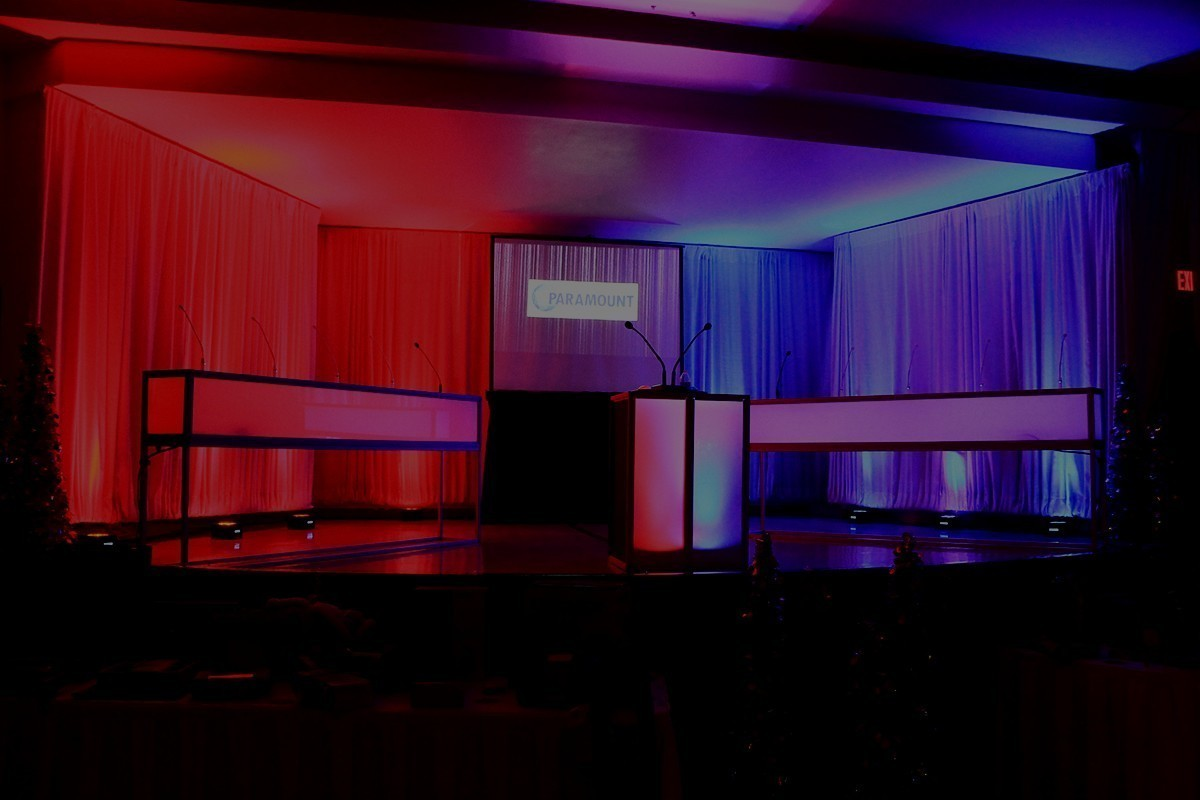
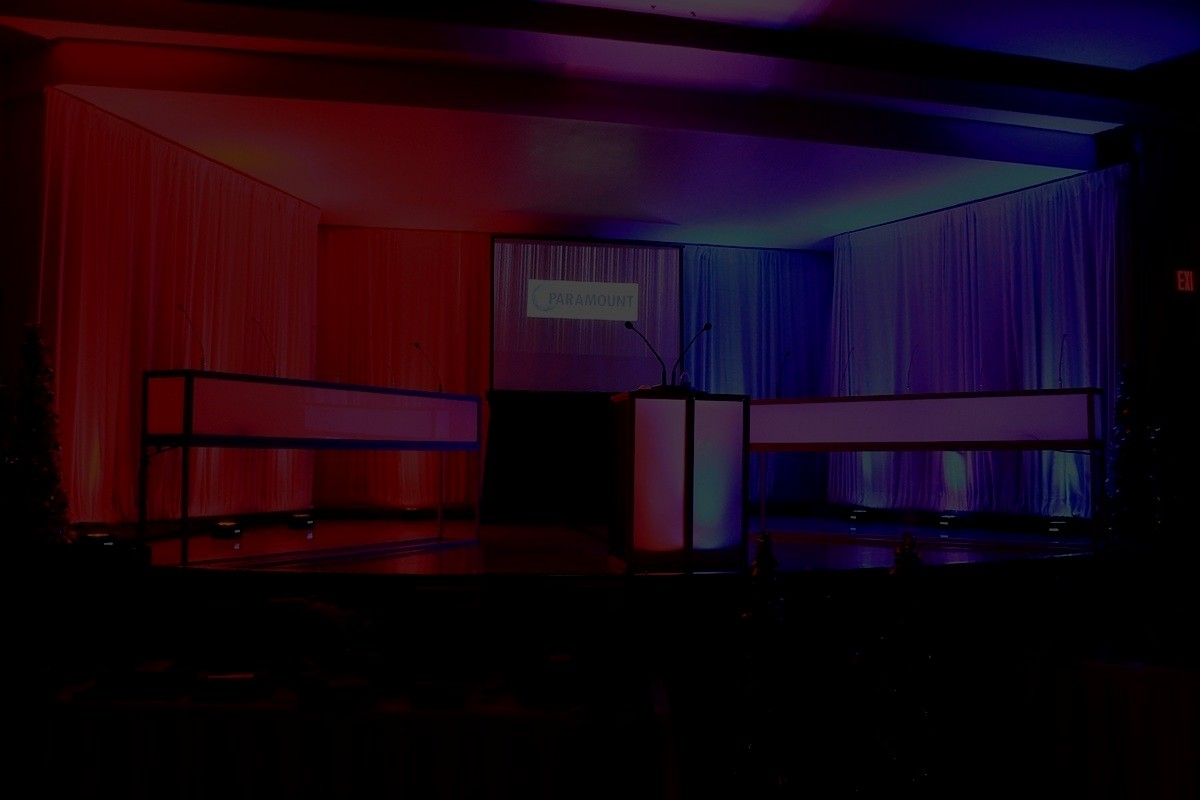
"Changed backgrounds"

diff --git a/other.html b/other.html
@@ -431,14 +431,14 @@ The participants will be judged on the basis of their writing skills, grammar an
 	<h1>LINGUATHON</h1>
 	<h2>Event Overview</h2>
 	<p>What more does a literary fest require except a battle of the tongues? </p>
-	<p>An event that vigorously tests Gespür in speaking, la Beauté in writing,  la alegría of listening, the 強い集中 for reading. Watch, or better yet participate, as the participants dole it out in a battle royale to test out who will be the master of their favourite language (cough, NOT ENGLISH) in... The Linguathon,  The Language Marathon!! </p>
+	<p>An event that vigorously tests Gespür in speaking, la Beauté in writing,  la alegría of listening. Watch, or better yet participate, as the participants dole it out in a battle royale to test out who will be the master of their favourite language (cough, NOT ENGLISH) in... The Linguathon,  The Language Marathon!! </p>
 	<h2>Languages Accepted:</h2>
 	<ul>
-		<li>संस्कृत (Sanskrit)  </li>
-		<li>Deutsche (German) </li>
-		<li>日本人 (Japanese) </li>
-		<li>Français (French) </li>
-		<li>Español (Spanish) </li>
+		<li>Sanskrit  </li>
+		<li>German </li>
+		<li>Japanese </li>
+		<li>French </li>
+		<li>Spanish </li>
 	</ul>
 	<h2>Event Details</h2>
 	<flexdet>
@@ -479,36 +479,36 @@ The participants will be judged on the basis of their writing skills, grammar an
 
 <div class='flex-events'>
 	<div class='bod' id='SH'>
-		<div class='content' ><div class='pad'>Lit Quiz</div><br><br>
-		<a> From Shakespearian plays to dystopian societies, put your literary trivia to test. <br> <button class='check' onclick='dis1()'>Learn More</button> </a> </div>
+		<div class='content' onclick='dis1()'><div class='pad'>Lit Quiz</div><br><br>
+		<a> Put your literary trivia to test. <br> <button class='check' >Learn More</button> </a> </div>
 	</div>
 	
 	<div class='bod' id='SOTS'>
-		<div class='content' ><div class='pad'>Spell Bee</div><br><br>
-		<a> This time, you can't blame autocorrect.<br> <button class='check' onclick='dis2()'>Learn More</button>  </a> </div>
+		<div class='content'  onclick='dis2()' ><div class='pad'>Spell Bee</div><br><br>
+		<a> This time, you can't blame autocorrect.<br> <button class='check'>Learn More</button>  </a> </div>
 	</div>
 	<div class='bod' id='PP'>
-		<div class='content' ><div class='pad'>Whose Ad is it Anyway?</div><br><br>
-		<a> Those unskippable youtube ads will prove useful after all.<br> <button class='check' onclick='dis3()'>Learn More</button>  </a> </div>
+		<div class='content' onclick='dis3()'><div class='pad'>Whose Ad is it Anyway?</div><br><br>
+		<a> Those unskippable youtube ads will prove useful after all.<br> <button class='check' >Learn More</button>  </a> </div>
 	</div>
 	<div class='bod' id='YY'>
-		<div class='content' ><div class='pad'>By the Law</div><br><br>
-		<a> Unleash the lawyer in you. <br> <button class='check' onclick='dis4()'>Learn More</button>  </a> </div>
+		<div class='content' onclick='dis4()'><div class='pad'>By the Law</div><br><br>
+		<a> Unleash the lawyer in you. <br> <button class='check' >Learn More</button>  </a> </div>
 	</div>
 			
 	<div class='bod' id='FF'>
-		<div class='content' ><div class='pad'>Bamboozled</div><br><br>
-		<a> Ever wanted to be a part of a game show? This is your chance. <br> <button class='check' onclick='dis5()'>Learn More</button>  </a> </div>
+		<div class='content' onclick='dis5()' ><div class='pad'>Bamboozled</div><br><br>
+		<a> Ever wanted to be a part of a game show? This is your chance. <br> <button class='check' >Learn More</button>  </a> </div>
 	</div>
 	
 	<div class='bod' id='TE'>
-		<div class='content' ><div class='pad'>Linguathon</div><br><br>
-		<a> Put your foreign tongue to the test.<br> <button class='check' onclick='dis6()'>Learn More</button>  </a> </div>
+		<div class='content'  onclick='dis6()'><div class='pad'>Linguathon</div><br><br>
+		<a> Put your foreign tongue to the test.<br> <button class='check'>Learn More</button>  </a> </div>
 	</div>
 	
 	<div class='bod' id='BE'>
-		<div class='content' ><div class='pad'>Youth Mahasabha</div><br><br>
-		<a> <br> <button class='check' onclick='dis7()'>Learn More</button>  </a> </div>
+		<div class='content'  onclick='dis7()'><div class='pad'>Youth Mahasabha</div><br><br>
+		<a> <br> <button class='check'>Learn More</button>  </a> </div>
 	</div>
 	
 </div>

diff --git a/writing.html b/writing.html
@@ -400,7 +400,7 @@ function dis7()
 	<ul>
 		<li>Participate in teams of two . </li>
 		<li>Write the yin or yang version of a prompt that suits your liking and swap with your partner.</li>
-		<li>Write a complementary(not necessarily opposite)version for whatever your partner has written</li>
+		<li>Write a complementary (not necessarily opposite) version for whatever your partner has written</li>
 	</ul>
 	<h2>Event Details</h2>
 	<flexdet>
@@ -446,7 +446,7 @@ Describe the world after the Thanos snap, or under the rule of Lord Voldemort, o
 </p>
 	<h2>Rules of Procedure</h2>
 	<ul>
-		<li>Submit your short story, prose or poem (in english only) to elas@hyderabad.bits-pilani.ac.in </li>
+		<li>Submit your short story, prose or poem (in english only) to verbamaximus@gmail.com </li>
 		<li>Word limit is up to 5000 words.</li>
 		<li>Submit your entries by the 18th of January.</li>
 		<li>Plagiarism of any form will not be accepted.</li>
@@ -468,31 +468,31 @@ Describe the world after the Thanos snap, or under the rule of Lord Voldemort, o
 
 <div class='flex-events'>
 	<div class='bod' id='SH'>
-		<div class='content' ><div class='pad'>Sherlocked</div><br><br>
-		<a> Play the detective and unmask the twisted lies. <br> <button class='check' onclick='dis1()'>Learn More</button> </a> </div>
+		<div class='content'  onclick='dis1()'><div class='pad'>Sherlocked</div><br><br>
+		<a> Play the detective and unmask the twisted lies. <br> <button class='check'>Learn More</button> </a> </div>
 	</div>
 	
 	<div class='bod' id='SOTS'>
-		<div class='content' ><div class='pad'>Symphonies <br>of the Soul</div><br><br>
-		<a> Let the music guide you.<br> <button class='check' onclick='dis2()'>Learn More</button>  </a> </div>
+		<div class='content' onclick='dis2()'><div class='pad'>Symphonies <br>of the Soul</div><br><br>
+		<a> Let the music guide you.<br> <button class='check' >Learn More</button>  </a> </div>
 	</div>
 	<div class='bod' id='PP'>
-		<div class='content' ><div class='pad'>Picture Perspective</div><br><br>
-		<a> Is a picture really worth a thousand words?<br> <button class='check' onclick='dis3()'>Learn More</button>  </a> </div>
+		<div class='content' onclick='dis3()' ><div class='pad'>Picture Perspective</div><br><br>
+		<a> Is a picture really worth a thousand words?<br> <button class='check'>Learn More</button>  </a> </div>
 	</div>
 	<div class='bod' id='YY'>
-		<div class='content' ><div class='pad'>Yin Yang</div><br><br>
-		<a> Two voices, one piece.<br> <button class='check' onclick='dis4()'>Learn More</button>  </a> </div>
+		<div class='content'  onclick='dis4()'><div class='pad'>Yin Yang</div><br><br>
+		<a> Two voices, one piece.<br> <button class='check'>Learn More</button>  </a> </div>
 	</div>
 			
 	<div class='bod' id='TE'>
-		<div class='content' ><div class='pad'>Rise Through the Ages</div><br><br>
-		<a> Create a revolution stronger than time itself.<br> <button class='check' onclick='dis6()'>Learn More</button>  </a> </div>
+		<div class='content'  onclick='dis6()'><div class='pad'>Rise Through the Ages</div><br><br>
+		<a> Create a revolution stronger than time itself.<br> <button class='check'>Learn More</button>  </a> </div>
 	</div>
 	
 	<div class='bod' id='BE'>
-		<div class='content' ><div class='pad'>Quill the Revolution</div><br><br>
-		<a> Online event.<br> <button class='check' onclick='dis7()'>Learn More</button>  </a> </div>
+		<div class='content'  onclick='dis7()'><div class='pad'>Quill the Revolution</div><br><br>
+		<a> Online event.<br> <button class='check'>Learn More</button>  </a> </div>
 	</div>
 	
 </div>

diff --git a/team.html b/team.html
@@ -63,7 +63,7 @@ body{background-color: #262626;}
 	border-right: 50px solid #000;
 	border-bottom: 200px solid transparent;
 	background-position: 0px 0px;
-	background-size: 250px 200px;
+	background-size: 225px 250px;
 }
 
 .txt
@@ -137,7 +137,7 @@ hr{padding: 0;}
 .pic{border-right: 30px solid #000;
 	border-bottom: 100px solid transparent;
 	background-position: 0px 0px;
-	background-size: 125px 115px;
+	background-size: 125px 130px;
 	}
 .name{font-size: 3.5vw; padding: 0; margin: 0;}
 .work{font-size:3.4vw; top: 0; padding: 0; margin: 0;}
@@ -175,7 +175,7 @@ hr{padding: 0;}
 		<div class='pic' id='AR'></div>
 		<div class='txt'>
 		<div class='name'>ADITYA RAMASWAMI</div>
-		<div class='work'>Convener</div>
+		<div class='work'>Secretary</div>
 		<hr>
 		<div class='number'>+918465927967</div>
 		<button class='contact' onclick="location.href='https://www.facebook.com/aditya.ramaswami';" >Contact</button>
@@ -221,7 +221,7 @@ hr{padding: 0;}
 		<div class='name'>ASHUTOSH ANDHARI</div>
 		<div class='work'>Sponsorship</div>
 		<hr>
-		<div class='number'>+919999999999</div>
+		<div class='number'>+919902413298</div>
 		<button class='contact' onclick="location.href='https://www.facebook.com/ashutosh.andhari';">Contact</button>
 		
 		</div>	
@@ -251,7 +251,7 @@ hr{padding: 0;}
 		<div class='name'>PRANEETH SETTY</div>
 		<div class='work'>Offline Publicity</div>
 		<hr>
-		<div class='number'>+919999999999</div>
+		<div class='number'>+917680993056</div>
 		<button class='contact' onclick="location.href='https://www.facebook.com/praneeth.c.up';">Contact</button>
 		
 		</div>	
@@ -281,7 +281,7 @@ hr{padding: 0;}
 		<div class='name'>VISHAL PRABU</div>
 		<div class='work'>Design</div>
 		<hr>
-		<div class='number'>+919999999999</div>
+		<div class='number'>+919866150211</div>
 		<button class='contact' onclick="location.href='https://www.facebook.com/vishalprabu99';">Contact</button>
 		
 		</div>	
@@ -311,7 +311,7 @@ hr{padding: 0;}
 		<div class='name'>BALPREET SINGH</div>
 		<div class='work'>Photography</div>
 		<hr>
-		<div class='number'>+919999999999</div>
+		<div class='number'>+919887422827</div>
 		<button class='contact' onclick="location.href='https://www.facebook.com/Balpreet999.701';">Contact</button>
 		
 		</div>	
@@ -341,7 +341,7 @@ hr{padding: 0;}
 		<div class='name'>MEHER GAJULA</div>
 		<div class='work'>Videography</div>
 		<hr>
-		<div class='number'>+919999999999</div>
+		<div class='number'>+919492939515</div>
 		<button class='contact' onclick="location.href='https://www.facebook.com/MeherGajula';">Contact</button>
 		
 		</div>	
@@ -355,7 +355,7 @@ hr{padding: 0;}
 		<div class='pic' id='RS'></div>
 		<div class='txt'>
 		<div class='name'>RISHABH SHRIMAL</div>
-		<div class='work'>Events</div>
+		<div class='work'>Event Management</div>
 		<hr>
 		<div class='number'>+919300383939</div>
 		<button class='contact' onclick="location.href='https://www.facebook.com/rishabh.shrimal.716';">Contact</button>

diff --git a/speaking.html b/speaking.html
@@ -466,26 +466,26 @@ Each poet gets a maximum of four minutes (plus a ten-second grace period) to rea
 
 <div class='flex-events'>
 	<div class='bod' id='SP'>
-		<div class='content' ><div class='pad'>Slam Poetry</div><br><br>
-		<a> Express your inner self through our words. <br> <button class='check' onclick='dis1()'>Learn More</button> </a> </div>
+		<div class='content'  onclick='dis1()'><div class='pad'>Slam Poetry</div><br><br>
+		<a> Express your inner self through your words. <br> <button class='check'>Learn More</button> </a> </div>
 	</div>
 	
 	<div class='bod' id='DB'>
-		<div class='content' ><div class='pad'>Debate</div><br><br>
-		<a> Stand your ground and convince the crowd.<br> <button class='check' onclick='dis2()'>Learn More</button>  </a> </div>
+		<div class='content'  onclick='dis2()' ><div class='pad'>Debate</div><br><br>
+		<a> Stand your ground and convince the crowd.<br> <button class='check'>Learn More</button>  </a> </div>
 	</div>
 	<div class='bod' id='DA'>
-		<div class='content' ><div class='pad'>Devil's Advocate</div><br><br>
-		<a> The dark side can be fun too.<br> <button class='check' onclick='dis3()'>Learn More</button>  </a> </div>
+		<div class='content'  onclick='dis3()'><div class='pad'>Devil's Advocate</div><br><br>
+		<a> The dark side can be fun too.<br> <button class='check'>Learn More</button>  </a> </div>
 	</div>
 	<div class='bod' id='JAM'>
-		<div class='content' ><div class='pad'>JAM</div><br><br>
-		<a> Keep talking uninterrupted for as long as you can.<br> <button class='check' onclick='dis4()'>Learn More</button>  </a> </div>
+		<div class='content' onclick='dis4()'><div class='pad'>JAM</div><br><br>
+		<a> Keep talking uninterrupted for as long as you can.<br> <button class='check' >Learn More</button>  </a> </div>
 	</div>
 			
 	<div class='bod' id='GD'>
-		<div class='content' ><div class='pad'>Group Discussion</div><br><br>
-		<a> Convince and question.<br> <button class='check' onclick='dis5()'>Learn More</button>  </a> </div>
+		<div class='content' onclick='dis5()'><div class='pad'>Group Discussion</div><br><br>
+		<a> Convince and question.<br> <button class='check' >Learn More</button>  </a> </div>
 	</div>
 	
 	
